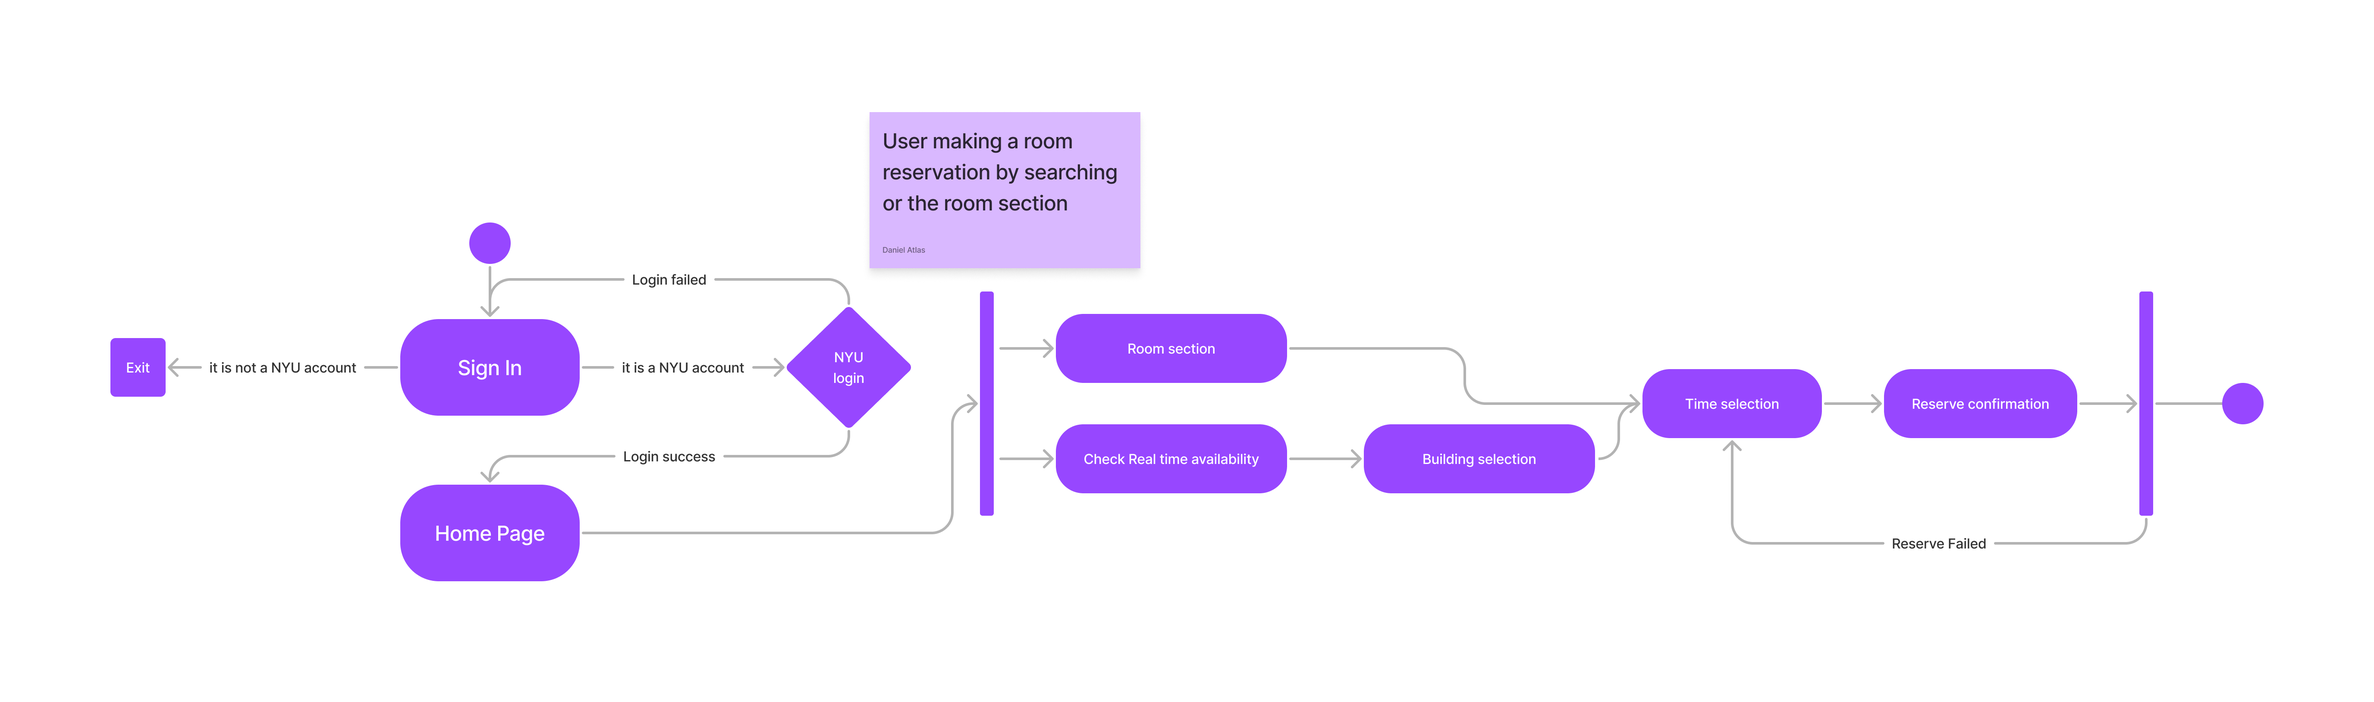
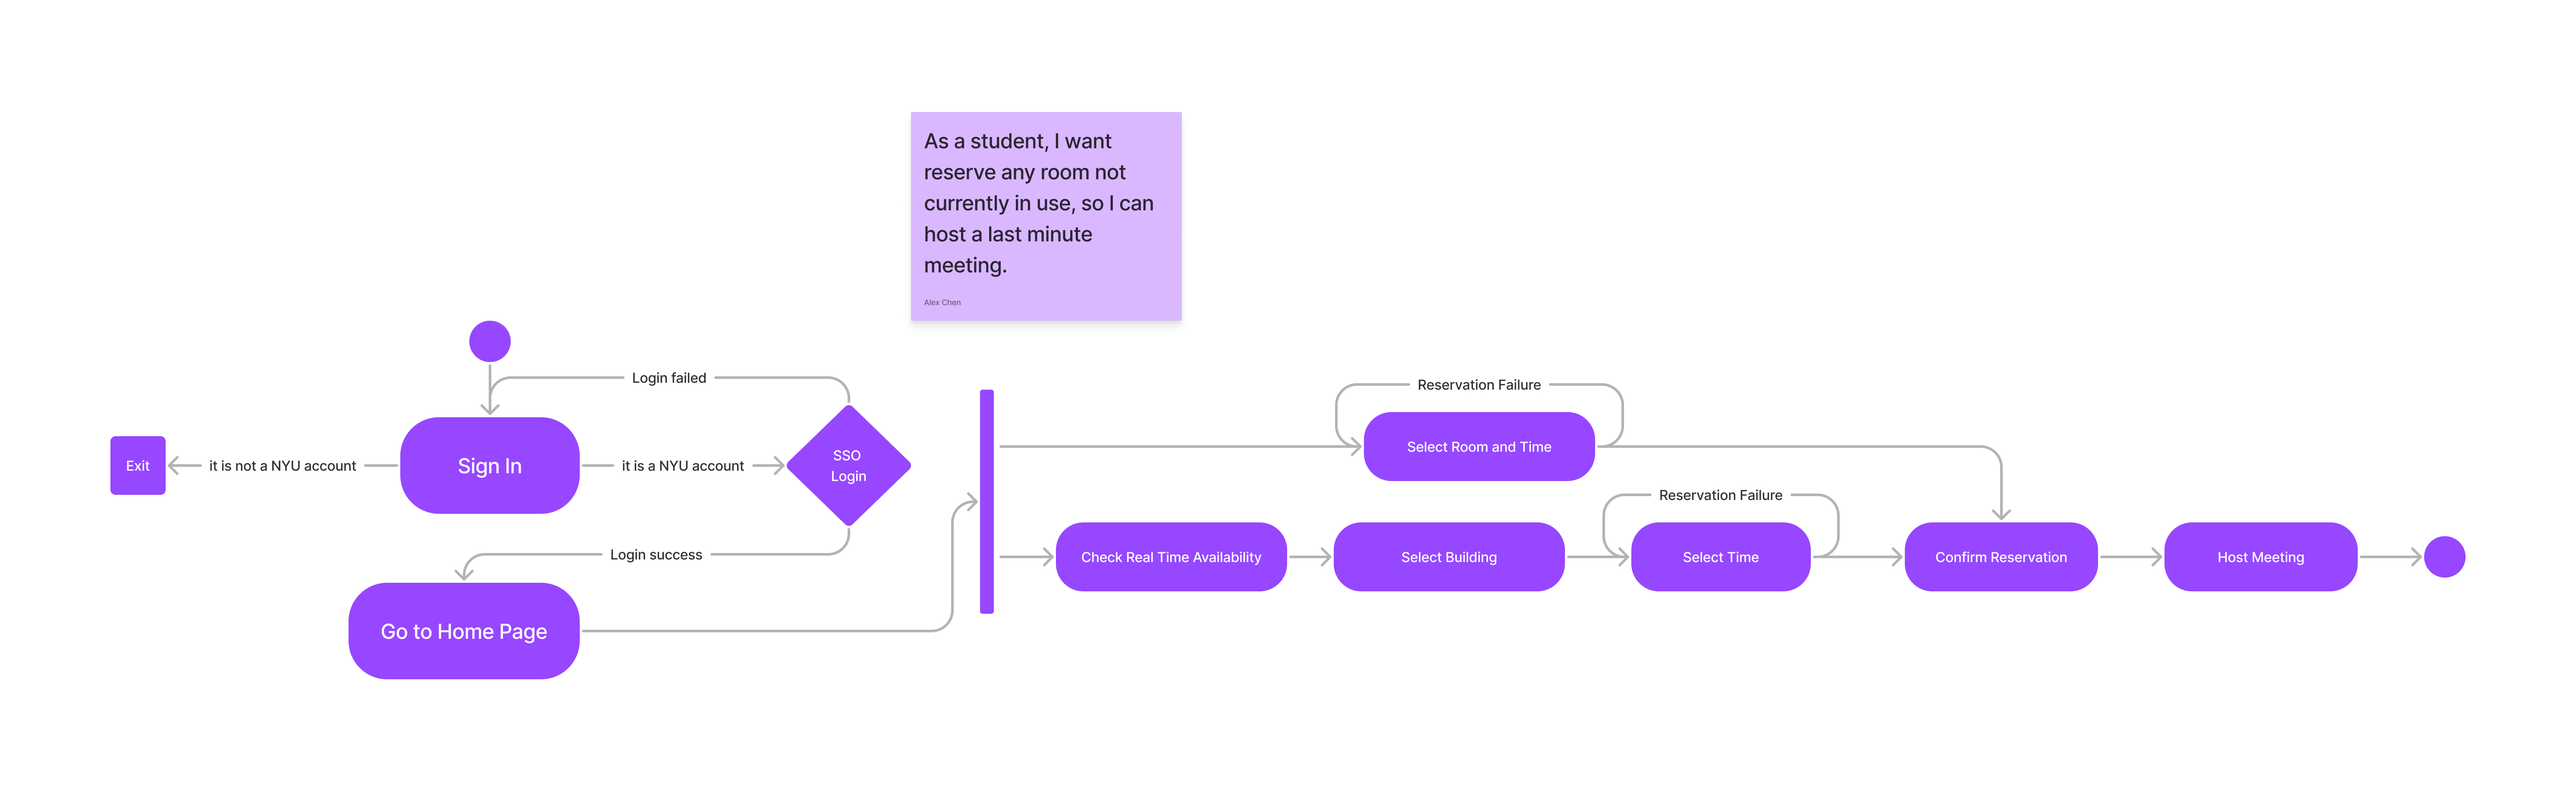
Updated both UML diagrams to match class example and updated user stories

Changed region(s): [[0.125, 0.1229, 0.9688, 0.86], [0.0312, 0.3071, 0.2812, 0.645]]

diff --git a/README.md b/README.md
@@ -35,7 +35,7 @@ NYU students are in need of a comprehensive and unified reservation system for B
 
 - As a student, I want to know which classrooms aren’t in use so I can host a meeting. 
 
-- As a commuter, I want to know the features of a space, so I can find a place to charge my computer. 
+- As a commuter, I want to know which computer labs are open so I can find a place to charge my computer. 
 
 - As a student, I want to see real-time data about multiple NYU buildings, so I can choose which one to go to after class. 
 
@@ -43,23 +43,26 @@ NYU students are in need of a comprehensive and unified reservation system for B
 
 - As a commuter, I want to be able to see predictions for when Bobst is less busy, so I can schedule a meeting in Bobst during that time. 
 
-- As a student, I want to know which classrooms aren’t currently in use, so I can host a last minute meeting. 
+- As a student, I want reserve any room not currently in use, so I can host a last minute meeting. 
 
-- As a commuter, I want to reserve a seat in advance so I will have somewhere to sit between campus, reliably.
+- As a commuter, I want to reserve a single seat in advance so I will have somewhere to sit between classes, reliably.
 
 - As a student, I want to reserve a console so I can play games with friends. 
 
 - As a student, I want to reserve a study space so that I can have a silent study environment.
 
-- As a student, I want to be able to know the features of a computer lab, so I can access certain software.
+- As a student, I want to be reserve a VR machine to do my digital art assignment. 
 
 
 ## Activity Diagrams
 
-User making a room reservation by searching or the room section
+User making a room reservation.
 
 <a href="https://www.figma.com/file/XYVwfrSNmy2idALxnAMT2m/UML-Room-res?node-id=0%3A1"><img src="./src/UML%20Room%20res.png" height="300" width="1000"/></a></a>
 
+User making a reservation for VR.
+
+<a href="https://www.figma.com/file/c4FNAaG5HmeNUA4BcINsXf/UML-Tech-res?node-id=12%3A125" target="_blank"><img src="./src/UML_VR_res.png" height="300" width="1000"/></a></a>
 
 ## Wireframe Diagrams
 
